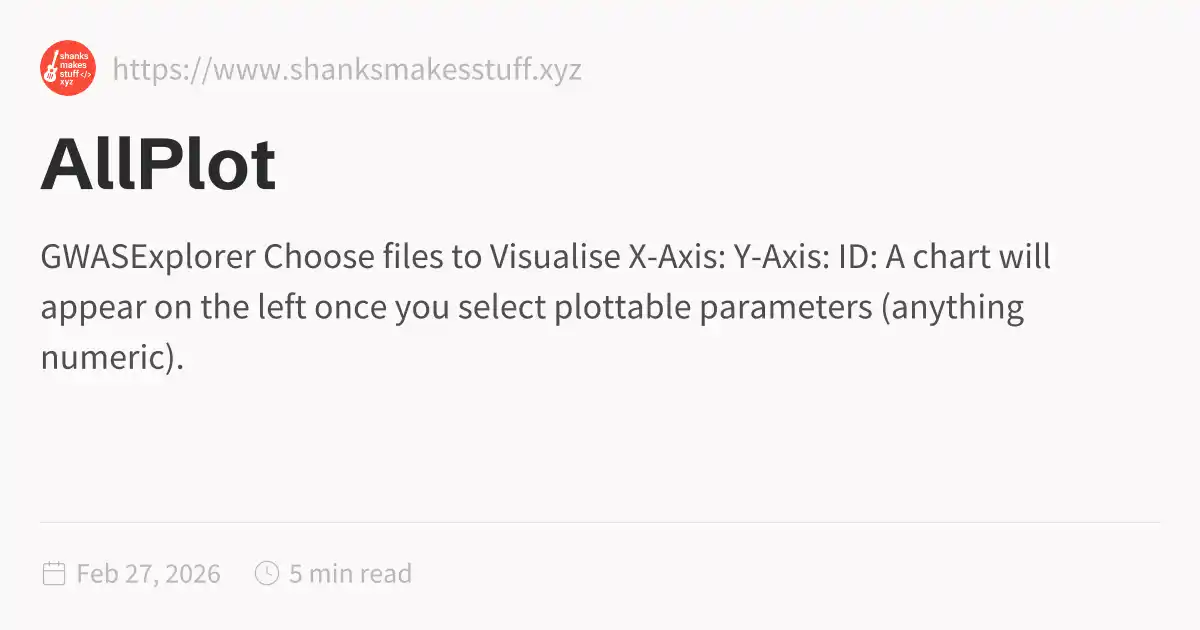
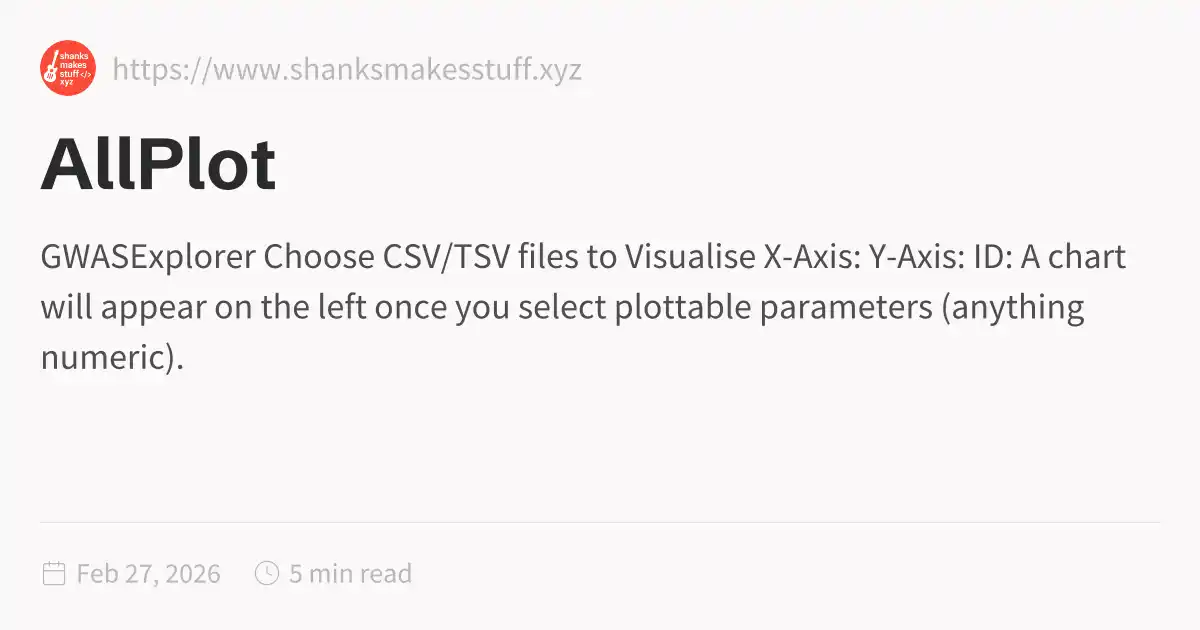
Auto-published: 2026-02-27T08:04:47.838Z

Changed region(s): [[0.0308, 0.3619, 0.9558, 0.5127]]

diff --git a/Tools/AllPlot.html b/Tools/AllPlot.html
@@ -1,5 +1,5 @@
 <!DOCTYPE html>
-<html lang="en"><head><title>AllPlot</title><meta charset="utf-8"/><link rel="preconnect" href="https://fonts.googleapis.com"/><link rel="preconnect" href="https://fonts.gstatic.com"/><link rel="stylesheet" href="https://fonts.googleapis.com/css2?family=Schibsted Grotesk:wght@400;700&amp;family=Source Sans Pro:ital,wght@0,400;0,600;1,400;1,600&amp;family=IBM Plex Mono:wght@400;600&amp;display=swap"/><link rel="preconnect" href="https://cdnjs.cloudflare.com" crossorigin="anonymous"/><meta name="viewport" content="width=device-width, initial-scale=1.0"/><meta name="og:site_name" content="ShanksMakesStuff"/><meta property="og:title" content="AllPlot"/><meta property="og:type" content="website"/><meta name="twitter:card" content="summary_large_image"/><meta name="twitter:title" content="AllPlot"/><meta name="twitter:description" content="GWASExplorer Choose files to Visualise X-Axis: Y-Axis: ID: A chart will appear on the left once you select plottable parameters (anything numeric)."/><meta property="og:description" content="GWASExplorer Choose files to Visualise X-Axis: Y-Axis: ID: A chart will appear on the left once you select plottable parameters (anything numeric)."/><meta property="og:image:alt" content="GWASExplorer Choose files to Visualise X-Axis: Y-Axis: ID: A chart will appear on the left once you select plottable parameters (anything numeric)."/><meta property="twitter:domain" content="https://www.shanksmakesstuff.xyz"/><meta property="og:url" content="https://https//www.shanksmakesstuff.xyz/Tools/AllPlot"/><meta property="twitter:url" content="https://https//www.shanksmakesstuff.xyz/Tools/AllPlot"/><link rel="icon" href="../static/icon.png"/><meta name="description" content="GWASExplorer Choose files to Visualise X-Axis: Y-Axis: ID: A chart will appear on the left once you select plottable parameters (anything numeric)."/><meta name="generator" content="Quartz"/><link href="../index.css" rel="stylesheet" type="text/css" spa-preserve/><style>.expand-button {
+<html lang="en"><head><title>AllPlot</title><meta charset="utf-8"/><link rel="preconnect" href="https://fonts.googleapis.com"/><link rel="preconnect" href="https://fonts.gstatic.com"/><link rel="stylesheet" href="https://fonts.googleapis.com/css2?family=Schibsted Grotesk:wght@400;700&amp;family=Source Sans Pro:ital,wght@0,400;0,600;1,400;1,600&amp;family=IBM Plex Mono:wght@400;600&amp;display=swap"/><link rel="preconnect" href="https://cdnjs.cloudflare.com" crossorigin="anonymous"/><meta name="viewport" content="width=device-width, initial-scale=1.0"/><meta name="og:site_name" content="ShanksMakesStuff"/><meta property="og:title" content="AllPlot"/><meta property="og:type" content="website"/><meta name="twitter:card" content="summary_large_image"/><meta name="twitter:title" content="AllPlot"/><meta name="twitter:description" content="GWASExplorer Choose CSV/TSV files to Visualise X-Axis: Y-Axis: ID: A chart will appear on the left once you select plottable parameters (anything numeric)."/><meta property="og:description" content="GWASExplorer Choose CSV/TSV files to Visualise X-Axis: Y-Axis: ID: A chart will appear on the left once you select plottable parameters (anything numeric)."/><meta property="og:image:alt" content="GWASExplorer Choose CSV/TSV files to Visualise X-Axis: Y-Axis: ID: A chart will appear on the left once you select plottable parameters (anything numeric)."/><meta property="twitter:domain" content="https://www.shanksmakesstuff.xyz"/><meta property="og:url" content="https://https//www.shanksmakesstuff.xyz/Tools/AllPlot"/><meta property="twitter:url" content="https://https//www.shanksmakesstuff.xyz/Tools/AllPlot"/><link rel="icon" href="../static/icon.png"/><meta name="description" content="GWASExplorer Choose CSV/TSV files to Visualise X-Axis: Y-Axis: ID: A chart will appear on the left once you select plottable parameters (anything numeric)."/><meta name="generator" content="Quartz"/><link href="../index.css" rel="stylesheet" type="text/css" spa-preserve/><style>.expand-button {
   position: absolute;
   display: flex;
   float: right;
@@ -116,7 +116,7 @@ pre:hover > .expand-button {
   padding: 0 12px;
   font-size: 14px;
 }
[2 lines of base64/hex data omitted]
     <title>GWASExplorer</title>
   
   
@@ -127,8 +127,8 @@ pre:hover > .expand-button {
       </div>
       <div class="contextmenufocussed" id="contextmenu">
         <label class="file-button">
-          Choose files to Visualise
-          <input type="file" id="file-input" multiple/>
+          Choose CSV/TSV files to Visualise
+          <input type="file" id="file-input" multiple accept=".csv, .tsv"/>
         </label>
         <div class="attributeSelectors">
           <div class="attributeSelector">
@@ -189,17 +189,19 @@ function plotChart(event) {
 
     const readPromises = Array.from(files).map(file => {
         return new Promise((resolve, reject) => {
-            if (!file.name.endsWith('.tsv')) {
-                showMessage(`Unsupported file type: ${file.name}.`, 'error');
-                return resolve(); // skip this file
-            }
+        if (!file.name.endsWith('.tsv') &amp;&amp; !file.name.endsWith('.csv')) {
+            showMessage(`Unsupported file type: ${file.name}. Please use CSV or TSV files.`, 'error');
+            return resolve(); // skip this file
+        }
 
-            const reader = new FileReader();
-            reader.onload = () => {
-                const lines = reader.result.split('\n').filter(line => line.trim().length > 0);
-                if (lines.length === 0) return resolve();
+        const reader = new FileReader();
+        reader.onload = () => {
+            const lines = reader.result.split('\n').filter(line => line.trim().length > 0);
+            if (lines.length === 0) return resolve();
 
-                const header = lines[0].split('\t');
+            // Detect delimiter based on file extension
+            const delimiter = file.name.endsWith('.csv') ? ',' : '\t';
+            const header = lines[0].split(delimiter);
                 fileNames.push(file.name);
                 allData[file.name] = [];
 
@@ -208,7 +210,7 @@ function plotChart(event) {
 
                 // Parse SNPs
                 for (let i = 1; i &lt; lines.length; i++) {
-                    const values = lines[i].split('\t');
+                const values = lines[i].split(delimiter);
                     const SNP = {};
                     header.forEach((attr, idx) => SNP[attr] = values[idx]);
                     allData[file.name].push(SNP);
@@ -223,11 +225,11 @@ function plotChart(event) {
 
     Promise.all(readPromises).then(() => {
         if (fileNames.length === 0) {
-            showMessage('No valid TSV files loaded.', 'error');
-            return;
-        }
+        showMessage('No valid CSV/TSV files loaded.', 'error');
+        return;
+    }
 
-        [...selectorDivs].forEach(x => x.style.display = &quot;inline&quot;);
+    [...selectorDivs].forEach(x => x.style.display = &quot;inline&quot;);
         viewport.className = &quot;viewport&quot;;
         contextmenu.className = &quot;contextmenuunfocussed&quot;;
 

diff --git a/Tools/index.html b/Tools/index.html
@@ -116,6 +116,6 @@ pre:hover > .expand-button {
   padding: 0 12px;
   font-size: 14px;
 }
[2 lines of base64/hex data omitted]
 </script><script type="module">function f(i,e){if(!i)return;function r(o){o.target===this&&(o.preventDefault(),o.stopPropagation(),e())}function t(o){o.key.startsWith("Esc")&&(o.preventDefault(),e())}i?.addEventListener("click",r),window.addCleanup(()=>i?.removeEventListener("click",r)),document.addEventListener("keydown",t),window.addCleanup(()=>document.removeEventListener("keydown",t))}function y(i){for(;i.firstChild;)i.removeChild(i.firstChild)}var h=class{constructor(e,r){this.container=e;this.content=r;this.setupEventListeners(),this.setupNavigationControls(),this.resetTransform()}isDragging=!1;startPan={x:0,y:0};currentPan={x:0,y:0};scale=1;MIN_SCALE=.5;MAX_SCALE=3;cleanups=[];setupEventListeners(){let e=this.onMouseDown.bind(this),r=this.onMouseMove.bind(this),t=this.onMouseUp.bind(this),o=this.resetTransform.bind(this);this.container.addEventListener("mousedown",e),document.addEventListener("mousemove",r),document.addEventListener("mouseup",t),window.addEventListener("resize",o),this.cleanups.push(()=>this.container.removeEventListener("mousedown",e),()=>document.removeEventListener("mousemove",r),()=>document.removeEventListener("mouseup",t),()=>window.removeEventListener("resize",o))}cleanup(){for(let e of this.cleanups)e()}setupNavigationControls(){let e=document.createElement("div");e.className="mermaid-controls";let r=this.createButton("+",()=>this.zoom(.1)),t=this.createButton("-",()=>this.zoom(-.1)),o=this.createButton("Reset",()=>this.resetTransform());e.appendChild(t),e.appendChild(o),e.appendChild(r),this.container.appendChild(e)}createButton(e,r){let t=document.createElement("button");return t.textContent=e,t.className="mermaid-control-button",t.addEventListener("click",r),window.addCleanup(()=>t.removeEventListener("click",r)),t}onMouseDown(e){e.button===0&&(this.isDragging=!0,this.startPan={x:e.clientX-this.currentPan.x,y:e.clientY-this.currentPan.y},this.container.style.cursor="grabbing")}onMouseMove(e){this.isDragging&&(e.preventDefault(),this.currentPan={x:e.clientX-this.startPan.x,y:e.clientY-this.startPan.y},this.updateTransform())}onMouseUp(){this.isDragging=!1,this.container.style.cursor="grab"}zoom(e){let r=Math.min(Math.max(this.scale+e,this.MIN_SCALE),this.MAX_SCALE),t=this.content.getBoundingClientRect(),o=t.width/2,n=t.height/2,c=r-this.scale;this.currentPan.x-=o*c,this.currentPan.y-=n*c,this.scale=r,this.updateTransform()}updateTransform(){this.content.style.transform=`translate(${this.currentPan.x}px, ${this.currentPan.y}px) scale(${this.scale})`}resetTransform(){this.scale=1;let e=this.content.querySelector("svg");this.currentPan={x:e.getBoundingClientRect().width/2,y:e.getBoundingClientRect().height/2},this.updateTransform()}},C=["--secondary","--tertiary","--gray","--light","--lightgray","--highlight","--dark","--darkgray","--codeFont"],E;document.addEventListener("nav",async()=>{let e=document.querySelector(".center").querySelectorAll("code.mermaid");if(e.length===0)return;E||=await import("https://cdnjs.cloudflare.com/ajax/libs/mermaid/11.4.0/mermaid.esm.min.mjs");let r=E.default,t=new WeakMap;for(let n of e)t.set(n,n.innerText);async function o(){for(let s of e){s.removeAttribute("data-processed");let a=t.get(s);a&&(s.innerHTML=a)}let n=C.reduce((s,a)=>(s[a]=window.getComputedStyle(document.documentElement).getPropertyValue(a),s),{}),c=document.documentElement.getAttribute("saved-theme")==="dark";r.initialize({startOnLoad:!1,securityLevel:"loose",theme:c?"dark":"base",themeVariables:{fontFamily:n["--codeFont"],primaryColor:n["--light"],primaryTextColor:n["--darkgray"],primaryBorderColor:n["--tertiary"],lineColor:n["--darkgray"],secondaryColor:n["--secondary"],tertiaryColor:n["--tertiary"],clusterBkg:n["--light"],edgeLabelBackground:n["--highlight"]}}),await r.run({nodes:e})}await o(),document.addEventListener("themechange",o),window.addCleanup(()=>document.removeEventListener("themechange",o));for(let n=0;n<e.length;n++){let v=function(){let g=l.querySelector("#mermaid-space"),m=l.querySelector(".mermaid-content");if(!m)return;y(m);let w=c.querySelector("svg").cloneNode(!0);m.appendChild(w),l.classList.add("active"),g.style.cursor="grab",u=new h(g,m)},M=function(){l.classList.remove("active"),u?.cleanup(),u=null},c=e[n],s=c.parentElement,a=s.querySelector(".clipboard-button"),d=s.querySelector(".expand-button"),p=window.getComputedStyle(a),L=a.offsetWidth+parseFloat(p.marginLeft||"0")+parseFloat(p.marginRight||"0");d.style.right=`calc(${L}px + 0.3rem)`,s.prepend(d);let l=s.querySelector("#mermaid-container");if(!l)return;let u=null;d.addEventListener("click",v),f(l,M),window.addCleanup(()=>{u?.cleanup(),d.removeEventListener("click",v)})}});
 </script><script src="https://cdn.jsdelivr.net/npm/katex@0.16.11/dist/contrib/copy-tex.min.js" type="application/javascript"></script><script src="../postscript.js" type="module"></script></html>
